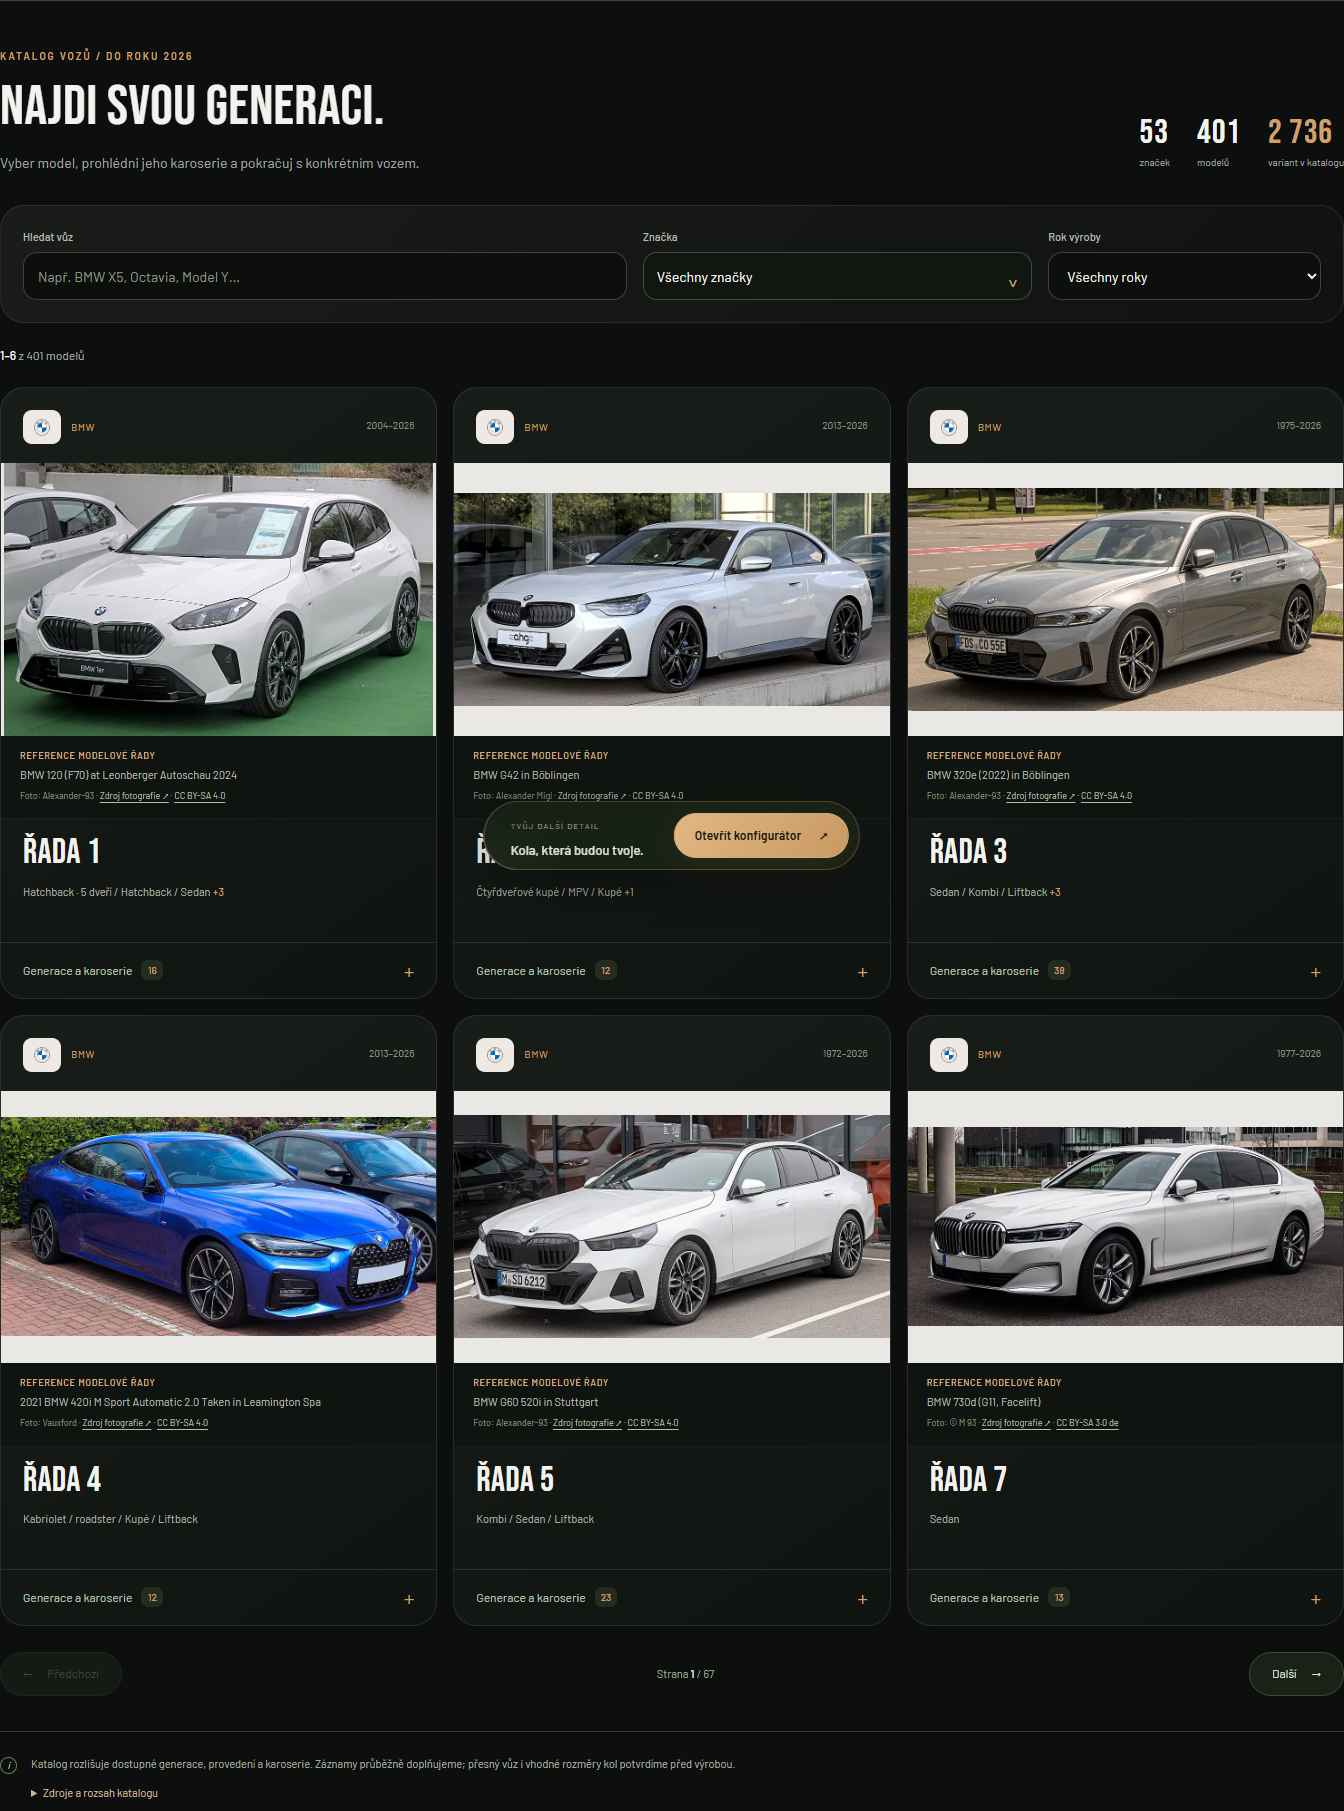
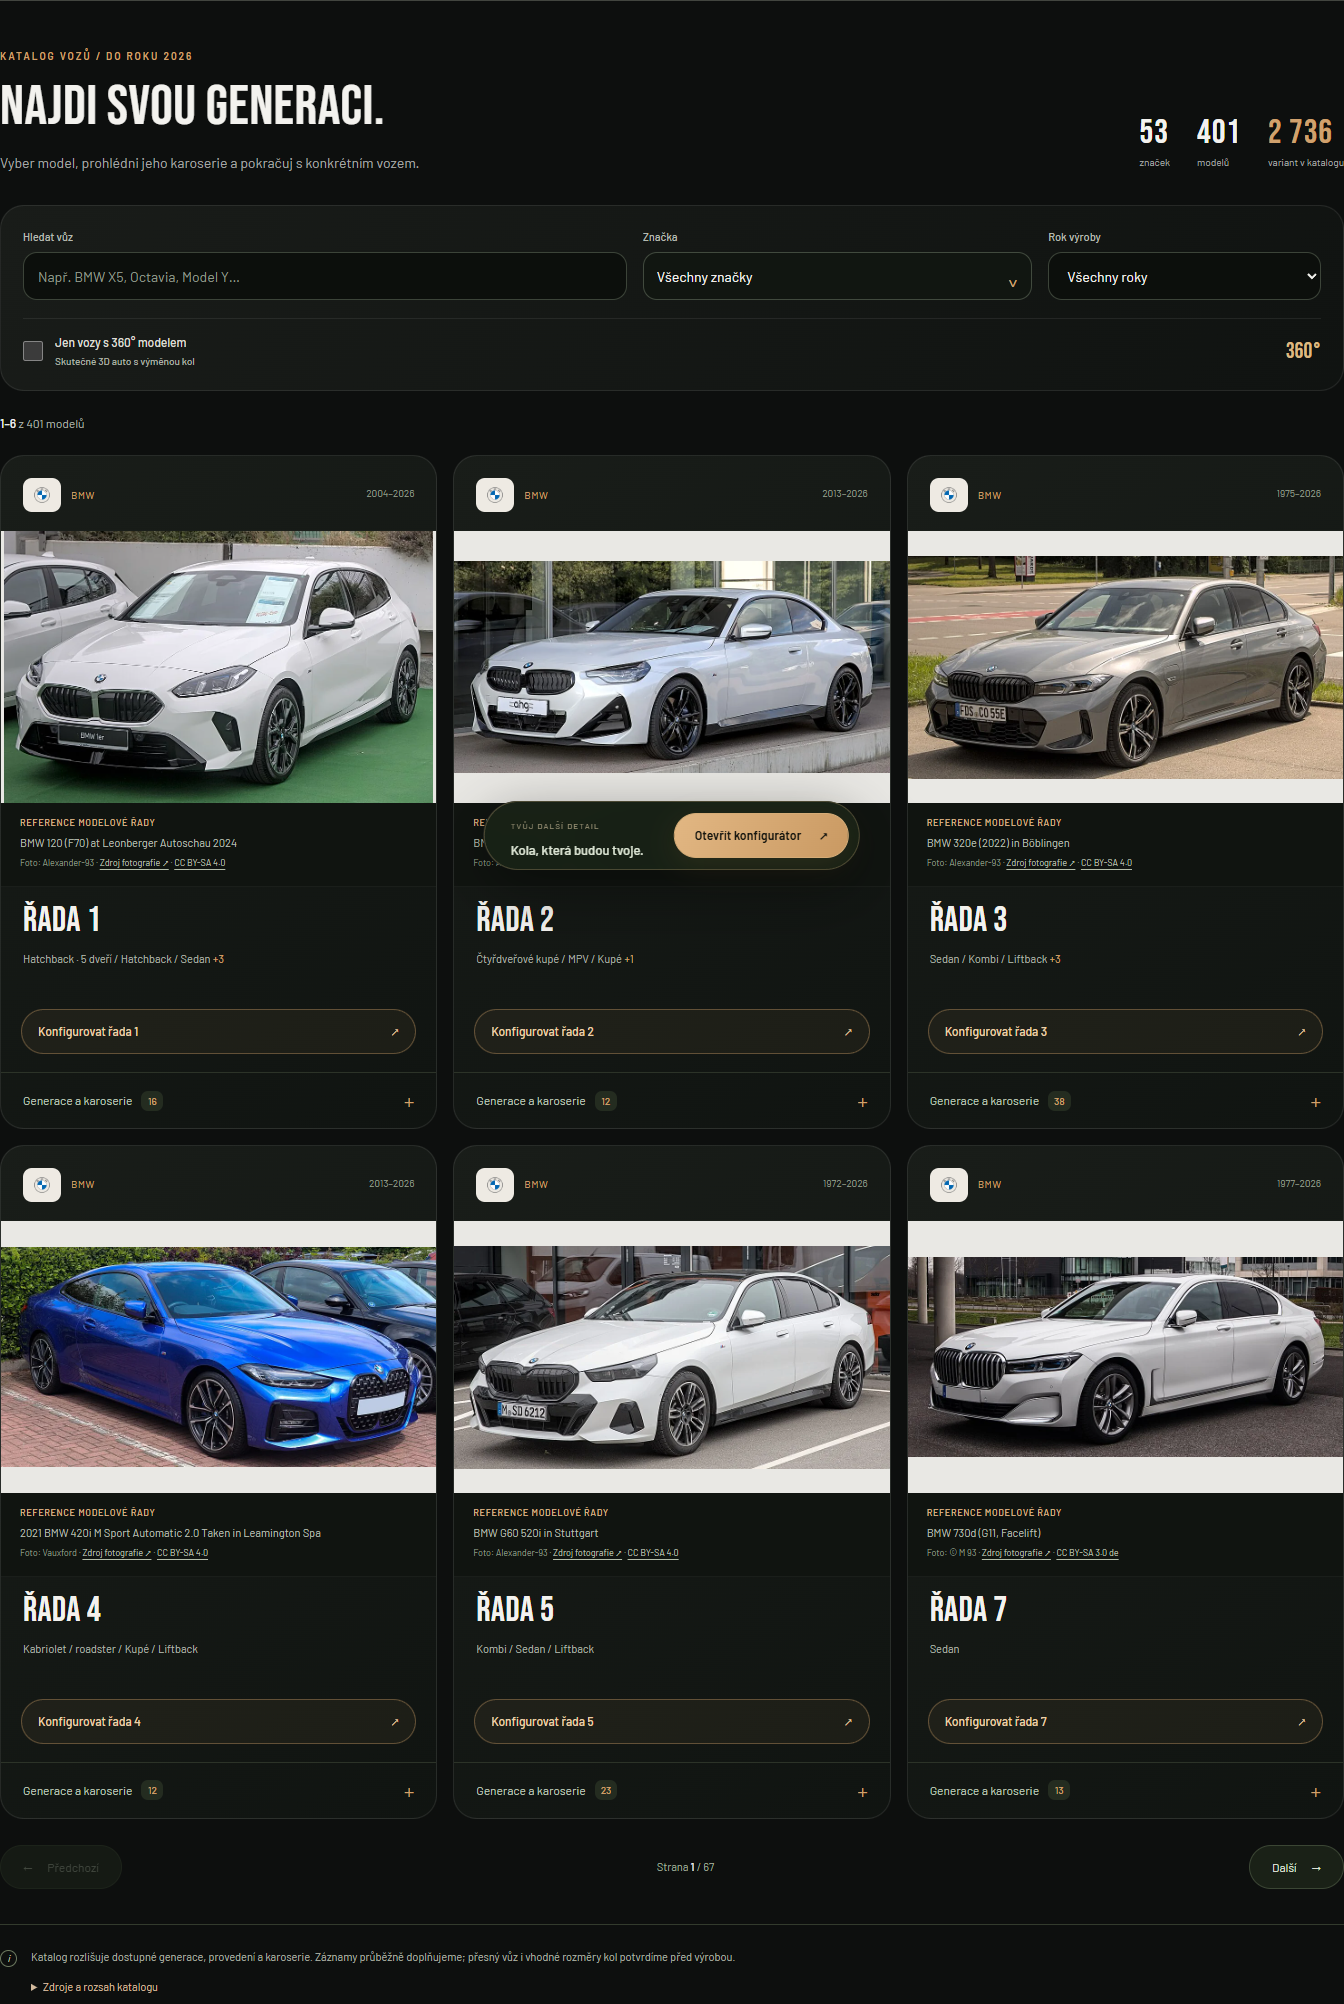
Carry searched vehicle into configurator entry links

diff --git a/js/catalog-browser.js b/js/catalog-browser.js
@@ -46,6 +46,18 @@
   const yearInput = root.querySelector('#catalogYear');
   const studioInput = root.querySelector('#catalog360');
   const resultContainer = root.querySelector('#catalogResults');
+  // Capture the original destinations once; never inherit an old configured URL.
+  const configureLinks = [...document.querySelectorAll('a[href]')].flatMap(anchor => {
+    const href = anchor.getAttribute('href'), url = new URL(href, location.href);
+    const hash = new URLSearchParams(url.hash.slice(1));
+    if (url.origin !== location.origin || url.pathname !== new URL('konfigurator.html', location.href).pathname ||
+      ['brand','model','car'].some(key => url.searchParams.has(key) || hash.has(key))) return [];
+    anchor.dataset.configureVehicle = '';
+    return [{ anchor, href }];
+  });
+  const dock = document.getElementById('discoveryDock');
+  const dockLabel = dock?.querySelector('div > span'), dockTitle = dock?.querySelector('div > b');
+  const dockDefaults = { label: dockLabel?.textContent, title: dockTitle?.textContent };
   const brandPicker = window.NFWBrandPicker?.enhance(brandInput, { label: 'Značka v katalogu' });
   const termsMatch = item => !state.search.trim() || normalise(state.search).split(' ').every(term => item.search.includes(term) || item.search.replace(/ /g, '').includes(term));
   const prefiltered = () => models.filter(item => (!state.brand || item.brand.id === state.brand) && termsMatch(item));
@@ -62,6 +74,44 @@
   }
 
   const visibleVariants = item => item.variants.filter(g => inYear(g) && (!state.only3d || studioFor(item, g)));
+
+  function modelSelection(item) {
+    const variants = visibleVariants(item);
+    // The 360 filter explicitly narrows to the registered vehicle shown in the catalogue.
+    if (state.only3d && variants.length === 1) return new URL(linkFor(item, variants[0], studioFor(item, variants[0])), location.href).searchParams;
+    const params = new URLSearchParams({ brand: item.brand.id, model: item.model.id, year: state.year || '0', generation: '', body: '', view: 'car' });
+    if (state.year) {
+      const bodies = [...new Set(variants.map(g => g.body).filter(body => body && body !== 'unknown'))];
+      if (bodies.length === 1) params.set('body', bodies[0]);
+      if (variants.length === 1 && bodies.length === 1) params.set('generation', variants[0].id);
+    }
+    return params;
+  }
+
+  function updateConfigureLinks(items) {
+    const term = normalise(state.search).replace(/ /g, '');
+    const exact = term ? items.filter(item => [item.model.name, item.brand.name + ' ' + item.model.name]
+      .some(name => normalise(name).replace(/ /g, '') === term)) : [];
+    const selected = items.length === 1 ? items[0] : exact.length === 1 ? exact[0] : null;
+    const hasFilter = Boolean(state.search.trim() || state.brand || state.year || state.only3d);
+    for (const { anchor, href } of configureLinks) {
+      anchor.dataset.catalogVehicle = selected?.key || '';
+      anchor.dataset.catalogChoose = hasFilter && !selected ? 'true' : 'false';
+      if (!hasFilter) { anchor.setAttribute('href', href); continue; }
+      if (!selected) { anchor.setAttribute('href', '#vehicleCatalogue'); continue; }
+      const target = new URL(href, location.href), params = modelSelection(selected);
+      const originalView = target.searchParams.get('view');
+      target.hash = '';
+      for (const [key, value] of params) target.searchParams.set(key, value);
+      // A design's detail view is intentional; ordinary CTAs open the selected car.
+      if (originalView === 'wheel') target.searchParams.set('view', 'wheel');
+      anchor.setAttribute('href', 'konfigurator.html?' + target.searchParams);
+    }
+    if (dockLabel) dockLabel.textContent = selected ? 'VYBRANÝ VŮZ' : hasFilter ? 'TVŮJ VŮZ' : dockDefaults.label;
+    if (dockTitle) dockTitle.textContent = selected ? `${selected.brand.name} ${selected.model.name}${state.year ? ' · ' + state.year : ''}` : hasFilter ? (items.length ? 'Vyber model z výsledků.' : 'Upřesni hledaný model.') : dockDefaults.title;
+    const dockAction = dock?.querySelector('a > span');
+    if (dockAction) dockAction.innerHTML = `${hasFilter && !selected ? 'Vybrat model' : 'Otevřít konfigurátor'} <b aria-hidden="true">↗</b>`;
+  }
 
   function updateYears(items) {
     const years = new Set();
@@ -118,7 +168,7 @@
     const bodies = [...new Set(variants.filter(g => g.body && g.body !== 'unknown').map(g => g.bodyName || g.body))];
     const years = variants.length ? `${Math.min(...variants.map(g => g.from))}–${Math.min(through, Math.max(...variants.map(g => g.to)))}` : 'Varianty doplňujeme';
     const firstRows = variants.slice(0, 6).map(g => variantRow(item, g)).join('');
-    return `<article class="catalog-card" data-catalog-key="${esc(item.key)}"><div class="catalog-card-top"><span class="catalog-card-brand">${window.NFWBrandPicker?.logo(item.brand.id) || ''}<span>${esc(item.brand.name)}</span></span><small>${state.year || years}</small></div><div class="catalog-model-visual" data-model-photo></div><h4>${esc(item.model.name)}</h4><p class="catalog-card-bodies">${bodies.length ? esc(bodies.slice(0, 3).join(' / ')) + (bodies.length > 3 ? ` <span>+${bodies.length - 3}</span>` : '') : 'Výběr konkrétního vozu'}</p>${studioLink}${variants.length ? `<details class="catalog-variants" ${state.only3d ? 'open' : ''}><summary><span>Generace a karoserie <b>${num(variants.length)}</b></span><i aria-hidden="true">+</i></summary><ol class="catalog-variant-list">${firstRows}</ol>${variants.length > 6 ? `<button class="catalog-more-variants" type="button" data-more-variants="${esc(item.key)}">Zobrazit zbývající varianty (${num(variants.length - 6)}) <span aria-hidden="true">↓</span></button>` : ''}</details>` : `<div class="catalog-card-missing"><span>Detailní podklady ještě doplňujeme.</span><a href="${esc(linkFor(item))}">Vybrat model <span aria-hidden="true">↗</span></a></div>`}</article>`;
+    return `<article class="catalog-card" data-catalog-key="${esc(item.key)}"><div class="catalog-card-top"><span class="catalog-card-brand">${window.NFWBrandPicker?.logo(item.brand.id) || ''}<span>${esc(item.brand.name)}</span></span><small>${state.year || years}</small></div><div class="catalog-model-visual" data-model-photo></div><h4>${esc(item.model.name)}</h4><p class="catalog-card-bodies">${bodies.length ? esc(bodies.slice(0, 3).join(' / ')) + (bodies.length > 3 ? ` <span>+${bodies.length - 3}</span>` : '') : 'Výběr konkrétního vozu'}</p><a class="catalog-model-configure" href="konfigurator.html?${esc(modelSelection(item).toString())}">Konfigurovat ${esc(item.model.name)} <span aria-hidden="true">↗</span></a>${studioLink}${variants.length ? `<details class="catalog-variants" ${state.only3d ? 'open' : ''}><summary><span>Generace a karoserie <b>${num(variants.length)}</b></span><i aria-hidden="true">+</i></summary><ol class="catalog-variant-list">${firstRows}</ol>${variants.length > 6 ? `<button class="catalog-more-variants" type="button" data-more-variants="${esc(item.key)}">Zobrazit zbývající varianty (${num(variants.length - 6)}) <span aria-hidden="true">↓</span></button>` : ''}</details>` : `<div class="catalog-card-missing"><span>Detailní podklady ještě doplňujeme.</span><a href="${esc(linkFor(item))}">Vybrat model <span aria-hidden="true">↗</span></a></div>`}</article>`;
   }
 
   function hydrateVisuals() {
@@ -152,6 +202,7 @@
     const baseItems = prefiltered();
     if (years) updateYears(baseItems);
     const items = baseItems.filter(item => state.only3d ? visibleVariants(item).length : (!state.year || item.variants.some(inYear)));
+    updateConfigureLinks(items);
     const pages = Math.max(1, Math.ceil(items.length / pageSize));
     state.page = Math.min(Math.max(1, state.page), pages);
     const start = (state.page - 1) * pageSize;
@@ -175,11 +226,23 @@
   searchInput.addEventListener('input', () => {
     clearTimeout(searchTimer);
     state.search = searchInput.value; state.page = 1;
+    updateConfigureLinks(prefiltered().filter(item => visibleVariants(item).length));
     searchTimer = setTimeout(() => render({ years: true }), 120);
   });
   brandInput.addEventListener('change', () => { state.brand = brandInput.value; state.page = 1; render({ years: true }); });
   yearInput.addEventListener('change', () => { state.year = yearInput.value; state.page = 1; render(); });
   studioInput.addEventListener('change', () => { state.only3d = studioInput.checked; state.page = 1; render(); });
+  document.addEventListener('click', event => {
+    const anchor = event.target.closest('a[data-configure-vehicle]');
+    if (!anchor) return;
+    // Flush a just-typed query before the link's default navigation, even inside the debounce window.
+    clearTimeout(searchTimer); render({ years: true });
+    if (anchor.dataset.catalogChoose === 'true') {
+      event.preventDefault();
+      root.scrollIntoView({ block: 'start', behavior: 'instant' });
+      searchInput.focus({ preventScroll: true });
+    }
+  }, true);
   root.addEventListener('click', event => {
     const target = event.target.closest('button');
     if (!target) return;

diff --git a/js/configurator.js b/js/configurator.js
@@ -292,7 +292,7 @@
     const g = generation(), list = candidates(), years = V.getYears(S.brand, S.model);
     const bodies = V.getBodies(S.brand, S.model, S.year);
     const model = selectedModel();
-    const sourceNote = !g ? 'Zvol karoserii a konkrétní provedení.' : g.confidence === 'verified'
+    const sourceNote = !g ? S.year ? 'Zvol karoserii a konkrétní provedení.' : 'Doplň rok výroby a potom vyber provedení svého vozu.' : g.confidence === 'verified'
       ? 'Provedení doplněné z podkladů výrobce.' : 'Katalogové provedení. Kód generace a označení faceliftu nemusí být ve zdroji uvedené.';
     const endNote = !g ? '' : g.endBasis === 'inferred' ? 'Hranice období je odvozená z následujícího provedení; přechodový rok se může překrývat.' : g.endBasis === 'open' ? 'Zdroj neuvádí konec období. Katalog je omezen rokem 2026; dostupnost daného ročníku je potřeba ověřit.' : 'V přechodových letech se mohou období překrývat.';
     return `<div class="panel-kicker">01 / TVŮJ VŮZ</div><h2>Začni svým autem.</h2><p class="sub">${V.brandCount} značek · ${V.modelCount} modelů · ročníky do ${V.through}. Generace, facelifty a karoserie se ukládají s konfigurací.</p>
@@ -303,7 +303,7 @@
       <label class="field"><span>Karoserie</span><select id="vehicleBody" aria-label="Karoserie" ${!bodies.length?'disabled':''}>${bodies.length!==1 || !S.body?'<option value="">Vyber karoserii</option>':''}${bodies.map(b=>`<option value="${esc(b.id)}" ${S.body===b.id?'selected':''}>${esc(b.name)}</option>`).join('')}</select></label>
       <label class="field vehicle-fields__wide"><span>Generace / provedení ${list.length>1?'· upřesni variantu':''}</span><select id="vehicleGeneration" aria-label="Generace" ${!S.body || !list.length?'disabled':''}>${list.length!==1 || !S.body || !S.generation?'<option value="">Vyber provedení</option>':''}${S.body?list.map(g=>`<option value="${esc(g.id)}" ${S.generation===g.id?'selected':''}>${esc(g.name)} · ${V.periodLabel(g)}${g.status==='announced'?' · oznámeno':''}</option>`).join(''):''}</select></label>
       </div>
-      ${!years.includes(S.year)?'<div class="note vehicle-warning" role="status">Pro tento rok nemáme doložené provedení. Vyber dostupný ročník nebo chybějící variantu uveď do poznámky.</div>':''}
+      ${!S.year?'<div class="note" role="status">Model je vybraný. Doplň rok výroby a upřesni karoserii svého vozu.</div>':!years.includes(S.year)?'<div class="note vehicle-warning" role="status">Pro tento rok nemáme doložené provedení. Vyber dostupný ročník nebo chybějící variantu uveď do poznámky.</div>':''}
       <div class="generation-info"><small>${g ? g.confidence==='verified'?'PODKLADY VÝROBCE':'KATALOGOVÝ ZÁZNAM' : 'VÝBĚR PROVEDENÍ'}</small><b>${g?esc(g.name)+' · '+esc(g.bodyName):'Upřesni svůj vůz'}</b><span>${sourceNote}</span>${g?.status==='announced'?`<span class="vehicle-warning">Oznámené provedení · ${esc(g.startBasis || 'Dodávky jsou plánované.')}</span>`:''}</div>
       ${g?`<details class="vehicle-source"><summary>Období a zdroj údajů</summary><p>${V.periodLabel(g)} · ${esc(g.market)}. ${endNote}</p>${g.startBasis?`<p>${esc(g.startBasis)}</p>`:''}${g.notes?`<p>${esc(g.notes)}</p>`:''}${g.bodyVariants?.length?`<p>Další provedení řady ve zdroji: ${g.bodyVariants.map(esc).join(', ')}. Kombinaci s karoserií upřesni v poznámce.</p>`:''}<a href="${esc(g.source)}" target="_blank" rel="noopener">${esc(g.sourceTitle)} ↗</a>${g.additionalSources?.length?g.additionalSources.map(source=>`<br><a href="${esc(source.url)}" target="_blank" rel="noopener">${esc(source.title)} ↗</a>`).join(''):''}</details>`:''}
       <a class="text-link vehicle-catalog-link" href="index.html?catalogBrand=${encodeURIComponent(S.brand)}&catalogModel=${encodeURIComponent(model.name)}#auta">Prohlédnout katalog modelu (${model.variants.length} provedení) ↗</a>
@@ -562,6 +562,7 @@
   document.addEventListener('change', e => {
     const t = e.target;
     if (['vehicleBrand','vehicleModel','vehicleYear','vehicleBody','vehicleGeneration'].includes(t.id)) {
+      if (S.view === 'showroom') S.view = 'car';
       if(t.id==='vehicleBrand'){S.brand=t.value;S.model=selectedBrand().models[0].id;S.body='';S.generation='';S.carDetail='';}
       if(t.id==='vehicleModel'){S.model=t.value;S.body='';S.generation='';S.carDetail='';}
       if(t.id==='vehicleYear'){S.year=Number(t.value);S.generation='';}

diff --git a/css/studio-entry.css b/css/studio-entry.css
@@ -1,4 +1,5 @@
 /* Scoped entry points for generations backed by a real vehicle mesh. */
+.catalog-model-configure{display:flex;align-items:center;justify-content:space-between;gap:12px;margin:0 20px 18px;padding:12px 16px;border:1px solid #c99b6466;border-radius:999px;color:#ead0aa;background:#c99b6410;font-size:12px;font-weight:500}.catalog-model-configure:hover{background:#c99b6424;border-color:#dcb981}.catalog-model-configure:focus-visible{outline:2px solid #f2cca0;outline-offset:4px}
 .studio-entry{display:flex;align-items:center;gap:28px;margin-top:38px;margin-bottom:18px;padding:30px 34px;border:1px solid #d6ad7740;border-radius:26px;background:linear-gradient(110deg,#26271f,#151a18 62%,#20251d)}
 .studio-entry__symbol{flex:0 0 94px;height:94px;border:1px solid #d6ad7780;border-radius:50%;display:grid;place-items:center;font:33px var(--display);color:#e4c398;box-shadow:inset 0 0 0 9px #d6ad7708;transform:rotate(-8deg)}
 .studio-entry__copy{flex:1;min-width:0}.studio-entry__copy .eyebrow{font-size:9px;letter-spacing:.16em}.studio-entry h2{font-size:37px;line-height:1.08;margin:9px 0 11px;letter-spacing:.01em}.studio-entry p{font-size:13px;line-height:1.7;color:#bbc0b8;max-width:475px;margin:0}

diff --git a/index.html b/index.html
@@ -16,7 +16,7 @@
 <link rel="stylesheet" href="css/brand-picker.css">
 <link rel="stylesheet" href="css/luxury.css">
 <link rel="stylesheet" href="css/vehicle-visuals.css?v=20260905-wheel-fit">
-<link rel="stylesheet" href="css/studio-entry.css?v=20260905-360">
+<link rel="stylesheet" href="css/studio-entry.css?v=20260906-selection">
 <script type="importmap">{"imports":{"three":"./assets/vendor/three/three.module.js","three/addons/":"./assets/vendor/three/addons/"}}</script>
 </head>
 <body>
@@ -188,7 +188,7 @@
 <script src="js/brand-picker.js"></script>
 <script src="js/main.js?v=20260905-360"></script>
 <script src="js/vehicle-models.js?v=20260905-360"></script>
-<script src="js/catalog-browser.js?v=20260905-360"></script>
+<script src="js/catalog-browser.js?v=20260906-selection"></script>
 <script src="js/landing.js"></script>
 </body>
 </html>

diff --git a/konfigurator.html b/konfigurator.html
@@ -62,6 +62,6 @@
 <script src="js/brand-logos.js"></script>
 <script src="js/brand-picker.js"></script>
 <script src="js/main.js?v=20260905-360"></script>
-<script src="js/configurator.js?v=20260905-360"></script>
+<script src="js/configurator.js?v=20260906-selection"></script>
 </body>
 </html>

diff --git a/docs/verification.md b/docs/verification.md
@@ -1,6 +1,12 @@
 # Ověření Need For Wheels
 
-Aktualizováno 5. 9. 2026. Ověření probíhá v Chrome přes lokální HTTP server; desktop 1440 × 1000, mobil 390 × 844 a kontrola fotografických náhledů také při šířce 768 px. WebGL testy používají softwarový renderer SwiftShader; výsledky nejsou měřením FPS na běžném zařízení.
+Aktualizováno 6. 9. 2026. Ověření probíhá v Chrome přes lokální HTTP server; desktop 1440 × 1000, mobil 390 × 844 a kontrola fotografických náhledů také při šířce 768 px. WebGL testy používají softwarový renderer SwiftShader; výsledky nejsou měřením FPS na běžném zařízení.
+
+## Přenos vyhledaného vozu do konfigurátoru
+
+`node tools/check-catalog-handoff.cjs` ověřuje skutečné kliknutí na „Otevřít konfigurátor“ po zadání modelu, předvolbu značky/modelu/roku, obnovení katalogových filtrů z URL a mobilní rozložení. Jednoznačné provedení se přenáší; nevybraný rok ani nejednoznačná generace/karoserie se nedoplňují odhadem. Test zahrnuje přesný název Corolla vedle Corolla Cross, nulové a vícečetné výsledky, reset a kliknutí před dokončením debounce vyhledávání. Změna modelu uvnitř ukázkového showroomu přepne náhled na skutečně vybraný vůz. Výsledek: PASS, bez JavaScriptových chyb.
+
+Nezávislá kontrola potvrdila přenos pro všech 22 obecných a designových CTA a zachování 5 explicitních odkazů na ukázkové vozy/výrobní příklad. `check-catalog-browser.cjs` po této změně také prošel.
 
 ## Rozsah dat a skutečného 360° zobrazení
 
